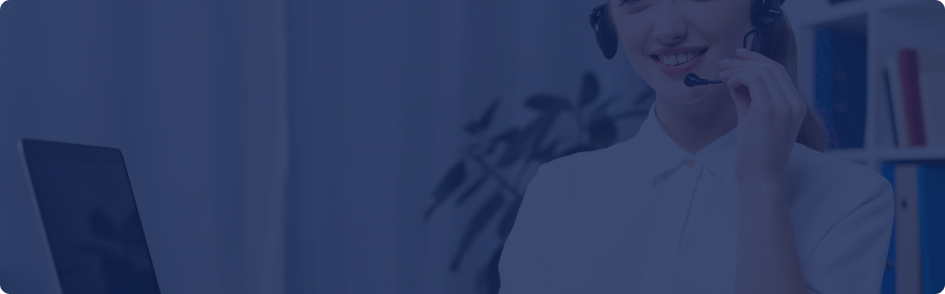
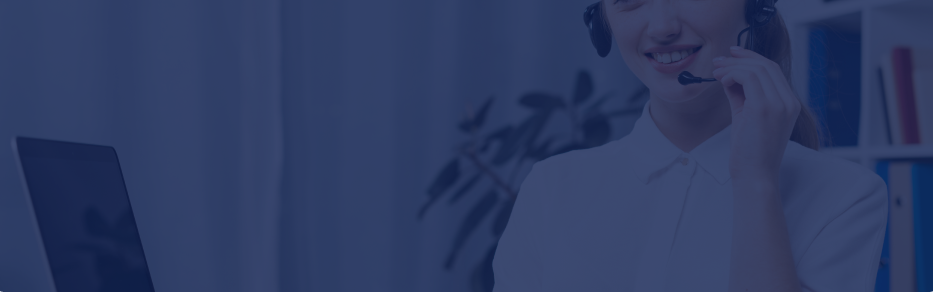
home last section background image working complite

diff --git a/src/components/home/homeLast/homeLast.css b/src/components/home/homeLast/homeLast.css
@@ -1,6 +1,47 @@
+.home_last_container{
+    margin-top: 100px;
+    margin-bottom: 100px;
+    margin-left: 207px;
+    margin-right: 207px;
+}
+
 .img{
     background-image: url('../../../assets/Rectangle\ 14\ \(1\).png');
 }
 .img{
+width: 100%;
+height: auto;
+display: flex;
+justify-content: center;
+align-items: center;
+}
 
+
+
+
+/* mobile */
+@media only screen and (min-width: 280px) and (max-width: 480px) {
+    .home_last_container{
+        margin-left: 30px;
+        margin-right: 30px;
+        margin-top: 30px;
+        margin-bottom: 30px;
+    }
+    .img{
+        width: 220px;
+        height: auto;
+
+    }
+}
+
+
+
+/* tab */
+@media only screen and (min-width: 481px) and (max-width: 900px) {
+    .home_last_container{
+        margin-left: 70px;
+        margin-right: 70px;
+        margin-top: 50px;
+        margin-bottom: 50px;
+    }
 }

diff --git a/src/components/home/homeLast/HomeLast.js b/src/components/home/homeLast/HomeLast.js
@@ -6,7 +6,17 @@ const HomeLast = () => {
   return (
     <>
       <div className="home_last_container">
-        <div className="img">fjnofoi</div>
+        <div className="img">
+          <div className="home_last_title">
+            <h1>
+              “Some of the History of Our Company is that we are Catching up
+              through Video”
+            </h1>
+            <div className="home_last_title_button">
+              <button>View More</button>
+            </div>
+          </div>
+        </div>
       </div>
     </>
   );
